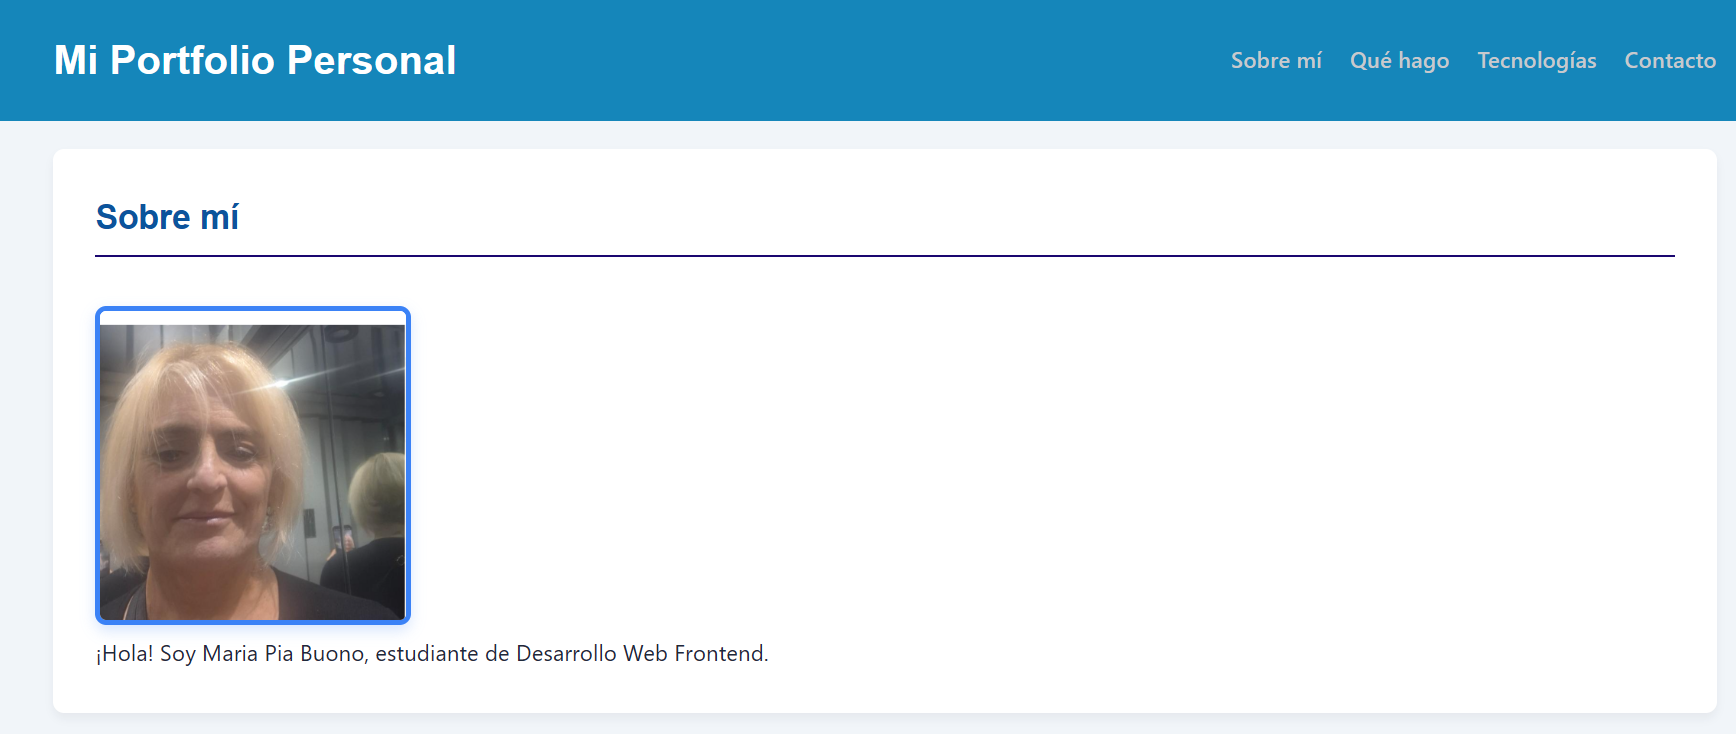
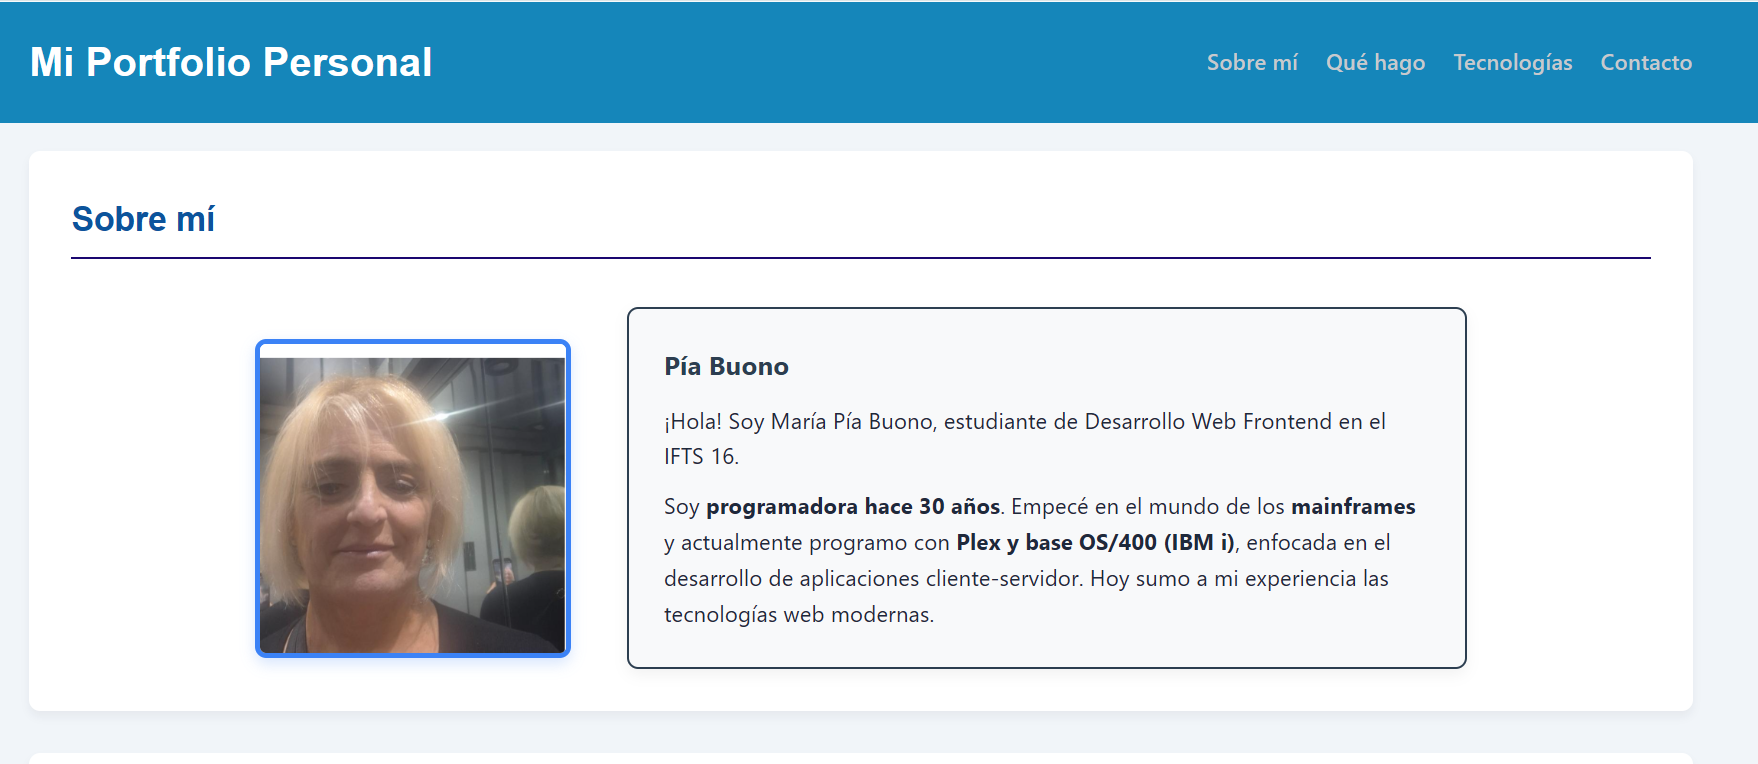
Actualizo mi portfolio I

diff --git a/css/styles.css b/css/styles.css
@@ -3,6 +3,8 @@
     padding: 0;
     box-sizing: border-box;
 }
+
+
 body {
     font-family: 'Inter', system-ui, -apple-system, sans-serif;
     line-height: 1.6;
@@ -41,7 +43,7 @@ header {
     justify-content: space-between;
     align-items: center;
     position: relative;
-    z-index: 10; /* Uso explícito de z-index */
+    z-index: 10;  
 }
 
 header h1 {
@@ -72,7 +74,7 @@ nav ul li a:visited {
 }
 
 nav ul li a:hover {
-    color: #38bdf8; /* Azul cian vibrante al pasar el cursor */
+    color: #38bdf8;  
     text-decoration: none;
 }
 
@@ -90,6 +92,52 @@ nav ul li a:active {
     margin-top: 15px;
     border: 4px solid #3b82f6;
     box-shadow: 0 4px 10px rgba(59, 130, 246, 0.2);
+}
+/* --- Contenedor Flex para alinear Foto y Cuadrado --- */
+.sobre-mi-contenedor {
+    display: flex;
+    flex-direction: row;
+    align-items: center;  
+    justify-content: center;
+    gap: 40px;  
+    margin-top: 3%;
+    width: 100%;
+}
+
+/* --- Estilos de la Foto --- */
+.sobre-mi-contenedor > img {
+    flex-shrink: 0;        
+    width: 220px;         
+    height: 220px;         
+    object-fit: cover;     
+    border-radius: 8px;    
+    display: block;        
+}
+
+/* --- El Cuadrado de la Descripción --- */
+.descripcion-cuadrado {
+    flex: 1;
+    max-width: 600px;
+    background-color: #f8f9fa;  
+    border: 2px solid #2c3e50;  
+    border-radius: 8px;         
+    padding: 25px;         
+    box-shadow: 0 4px 10px rgba(0, 0, 0, 0.05);  
+}
+
+/* Espaciados internos del cuadrado usando combinadores */
+.descripcion-cuadrado > h3 {
+    margin-bottom: 12px;
+    color: #2c3e50;
+}
+
+.descripcion-cuadrado > p {
+    line-height: 1.6;
+    margin-bottom: 10px;
+}
+
+.descripcion-cuadrado > p:last-child {
+    margin-bottom: 0;  
 }
 
 /* Tabla de Tecnologías */
@@ -123,7 +171,7 @@ form {
     flex-direction: column;
     gap: 18px;
     max-width: 600px;
-    margin: 0 auto; /* Centrado del formulario */
+    margin: 0 auto;  
 }
 
 form div {

diff --git a/index.html b/index.html
@@ -4,6 +4,7 @@
     <meta charset="UTF-8">
     <meta name="viewport" content="width=device-width, initial-scale=1.0">
     <title>Mi Portfolio Personal - IFTS 16</title>
+ 
     <!--CSS -->
     <link rel="stylesheet" href="css/styles.css">
      
@@ -23,12 +24,19 @@
         </nav>
     </header>
      <main>
-        <!-- COMENTARIO 2: Sección de presentación imagen propia e información personal -->
+        <!--  Sección de presentación imagen propia e información personal -->
         <section id="sobre-mi">
             <h2>Sobre mí</h2>
-            <img src="img/pia.png" alt="Foto de perfil de Pia">
-            <p>¡Hola! Soy Maria Pia Buono, estudiante de Desarrollo Web Frontend.</p>
-        </section>
+            <div class="sobre-mi-contenedor">
+                <img src="img/pia.png" alt="Foto de perfil de Pia">
+                <article class="descripcion-cuadrado">
+            <h3>Pía Buono</h3>
+            <p>¡Hola! Soy María Pía Buono, estudiante de Desarrollo Web Frontend en el IFTS 16.</p>
+            <p>Soy <strong>programadora hace 30 años</strong>. Empecé en el mundo de los <strong>mainframes</strong> y actualmente programo con <strong>Plex y base OS/400 (IBM i)</strong>, enfocada en el desarrollo de aplicaciones cliente-servidor. Hoy sumo a mi experiencia las tecnologías web modernas.</p>
+        </article>
+         </div>
+
+    </section>
 
          <!-- Sección "Qué hago" dividida en artículos independientes -->
         <section id="que-hago">
@@ -62,7 +70,7 @@
                     <tr>
                         <td>JavaScript</td>
                         <td>Intermedio</td>
-                        <td>Lenguaje</td>
+                        <td>Len>mainframes</strong> y actualmente programoguaje</td>
                     </tr>
                     <tr>
                         <td>Git & GitHub</td>

diff --git a/README.md b/README.md
@@ -6,13 +6,14 @@ Este proyecto es la página de presentación personal y portfolio web desarrolla
 
 Vista Previa
 
-<img src="/img/sample.png" alt="Muestra del Portfolio Web" width="100%">
+<img src="/img/muestra.png" alt="Muestra del Portfolio Web" width="100%">
 
 ---
 
 ## Características del Proyecto
 
-* **Maquetación Semántica HTML5:** Estructurado utilizando etiquetas semánticas (`<header>`, `<nav>`, `<main>`, `<section>`, `<article>`, `<footer>`)
+* Esta página web debe poder mostrar el conocimiento y manejo de elementos en bloque y en línea, además de <div> u
+otras etiquetas semánticas de HTML 5 como <main> o <article>(`<header>`, `<nav>`, `<main>`, `<section>`, `<article>`, `<footer>`)
 * **Secciones Integradas:**
   * **Sobre mí:** Presentación personal e imagen de perfil.
   * **Qué hago:** Descripción detallada de servicios y áreas de especialización.
@@ -30,5 +31,6 @@ Vista Previa
 ├── css/
 │   └── styles.css      # Hoja de estilos externa.
 └── img/                # Imágenes e iconos (< 500 KB)
-        ├── pia.png     # Foto personal
-        └── sample.png  # Captura de pantalla del proyecto
+        ├── pia.png     
+        # Foto personal
+        └── muestra.png  # Captura de pantalla del proyecto
